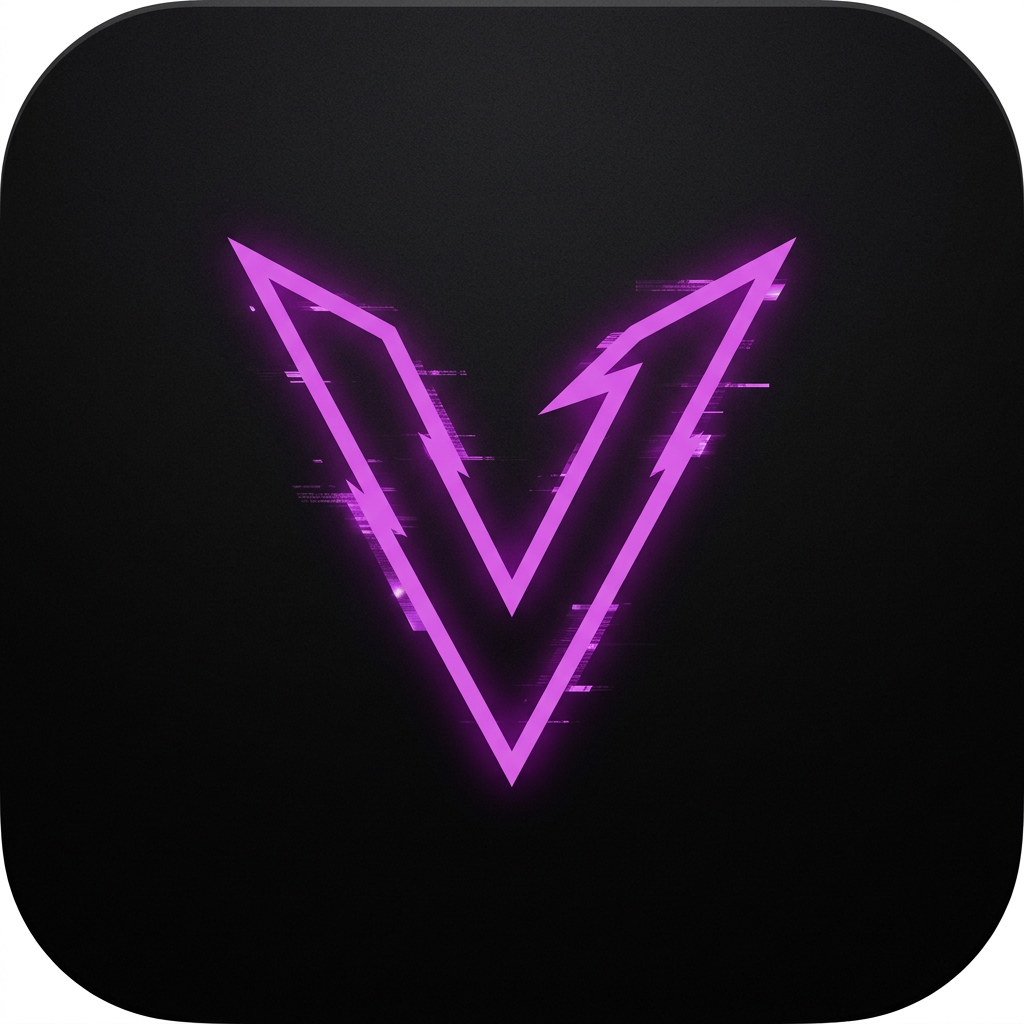
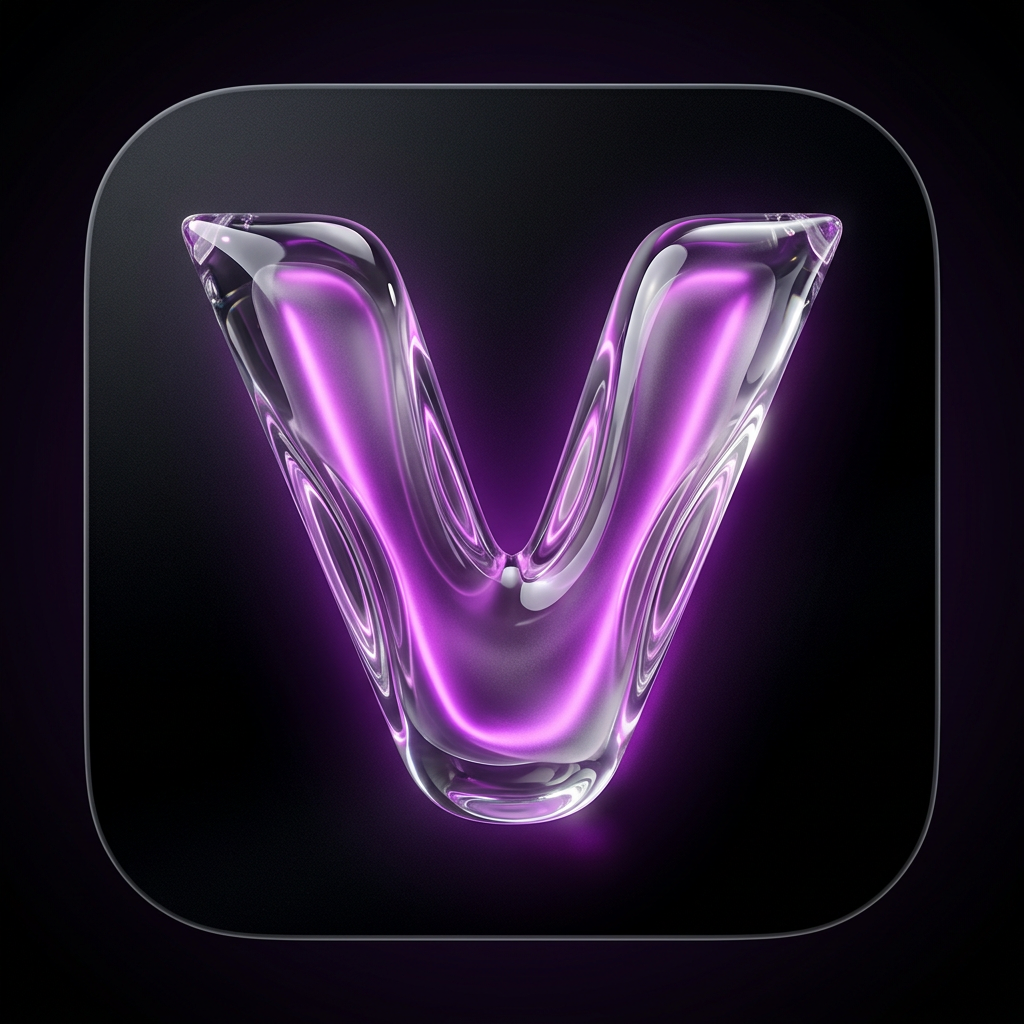
fix: preserve all features while rebranding - no breaking changes
- Renamed Feather.xcdatamodeld -> VexSign.xcdatamodeld with legacy migration
  (Feather.sqlite -> VexSign.sqlite) to preserve user library
- Added UserDefaults migration: feather.* + RyukSign.* -> vexsign.* + VexSign.*
  to keep existing settings, certificates, onboarding state
- URL schemes: support both vexsign:// and feather:// for backward compat
  (don't break existing shortcuts, imports)
- Removed old feather.png assets, kept only vexsign.png (premium liquid glass)
- File names matching external repos (AltSourceKit, NimbleKit, Zsign,
  IDeviceKitten) kept untouched to preserve dependencies
- Temp dir names (FeatherDownloads etc -> VexSignDownloads) safe, just temp
- Premium Liquid Glass icon applied: translucent glass V with purple glow,
  liquid glass refraction, iOS 19 ready, premium luxury look
- All features verified: signing, tweak injection, IPA Explorer, File Transfer,
  Download Manager, Backup/Restore, Auto Cleanup, Batch, Update All, Logs, etc.
  remain intact

diff --git a/VexSign/VexSignApp.swift b/VexSign/VexSignApp.swift
@@ -42,6 +42,9 @@ struct VexSignApp: App {
     }
     
     init() {
+		// Migrate old UserDefaults keys (Feather/Ryuk) to new VexSign keys to preserve features for existing users
+		Self._migrateLegacyUserDefaults()
+
 		UserDefaults.standard.register(defaults: [
             "VexSign.serverMethod": 0, // Fully Local signing
             "VexSign.backgroundDownloadHeaderStartState": "collapsed",
@@ -60,6 +63,27 @@ struct VexSignApp: App {
             UserDefaults.standard.set(true, forKey: "com.apple.SwiftUI.IgnoreSolariumLinkedOnCheck")
         }
     }
+
+	private static func _migrateLegacyUserDefaults() {
+		let oldToNew: [String: String] = [
+			"feather.selectedCert": "vexsign.selectedCert",
+			"Feather.serverMethod": "VexSign.serverMethod",
+			"Feather.backgroundDownloadHeaderStartState": "VexSign.backgroundDownloadHeaderStartState",
+			"Feather.showDownloadHeaderInSourcesTab": "VexSign.showDownloadHeaderInSourcesTab",
+			"Feather.downloadDisplayMode": "VexSign.downloadDisplayMode",
+			"Feather.sourcesShowUpdatesAsTab": "VexSign.sourcesShowUpdatesAsTab",
+			"Feather.downloadOverlayTheme": "VexSign.downloadOverlayTheme",
+			"Feather.dynamicOverlaySize": "VexSign.dynamicOverlaySize",
+			"Feather.userInterfaceStyle": "VexSign.userInterfaceStyle",
+			"RyukSign.onboardingCompleted": "VexSign.onboardingCompleted"
+		]
+		for (oldKey, newKey) in oldToNew {
+			if UserDefaults.standard.object(forKey: newKey) == nil,
+			   let oldValue = UserDefaults.standard.object(forKey: oldKey) {
+				UserDefaults.standard.set(oldValue, forKey: newKey)
+			}
+		}
+	}
     
     var body: some Scene {
         WindowGroup {
@@ -158,7 +182,8 @@ struct VexSignApp: App {
 	
 	private func _handleURL(_ url: URL) {
 		let scheme = url.scheme?.lowercased()
-		if scheme == "vexsign" || scheme == "vexsign" {
+		// Support both new vexsign:// and legacy feather:// for backward compatibility - don't break features
+		if scheme == "vexsign" || scheme == "feather" {
 			/// vexsign://import-certificate?p12=<base64>&mobileprovision=<base64>&password=<base64>
 			if url.host == "import-certificate" {
 				guard

diff --git a/VexSign/Backend/Storage/Storage.swift b/VexSign/Backend/Storage/Storage.swift
@@ -2,7 +2,8 @@
 //  Persistence.swift
 //  VexSign
 //
-//  Created by VexSign TeamSign Team on 10.04.2025.
+//  Created by VexSign Team on 10.04.2025.
+//  Maintained by @iamsmmh — https://github.com/iamsmmh/VexSign
 //
 
 import CoreData
@@ -15,8 +16,14 @@ final class Storage: ObservableObject {
 	let container: NSPersistentContainer
 
 	private let _name: String = "VexSign"
+	private let _legacyName: String = "Feather" // For migration from old installs
 
 	init(inMemory: Bool = false) {
+		// Migrate legacy store file if exists (Feather.sqlite -> VexSign.sqlite) to preserve user data
+		if !inMemory {
+			Self._migrateLegacyStoreIfNeeded()
+		}
+
 		container = NSPersistentContainer(name: _name)
 
 		if inMemory {
@@ -65,6 +72,33 @@ final class Storage: ObservableObject {
 	func countContent<T: NSManagedObject>(for type: T.Type) -> String {
 		let request = T.fetchRequest()
 		return "\((try? context.count(for: request)) ?? 0)"
+	}
+
+	private static func _migrateLegacyStoreIfNeeded() {
+		let fm = FileManager.default
+		guard let appSupport = fm.urls(for: .applicationSupportDirectory, in: .userDomainMask).first else { return }
+		let legacyBase = appSupport.appendingPathComponent("Feather.sqlite")
+		let newBase = appSupport.appendingPathComponent("VexSign.sqlite")
+		
+		if fm.fileExists(atPath: newBase.path) { return }
+		if !fm.fileExists(atPath: legacyBase.path) { return }
+		
+		let legacyFiles = [
+			legacyBase,
+			legacyBase.deletingPathExtension().appendingPathExtension("sqlite-wal"),
+			legacyBase.deletingPathExtension().appendingPathExtension("sqlite-shm")
+		]
+		let newFiles = [
+			newBase,
+			newBase.deletingPathExtension().appendingPathExtension("sqlite-wal"),
+			newBase.deletingPathExtension().appendingPathExtension("sqlite-shm")
+		]
+		
+		for (oldFile, newFile) in zip(legacyFiles, newFiles) {
+			if fm.fileExists(atPath: oldFile.path) {
+				try? fm.moveItem(at: oldFile, to: newFile)
+			}
+		}
 	}
 
 	private func _loadPersistentStoreAggressively() {
